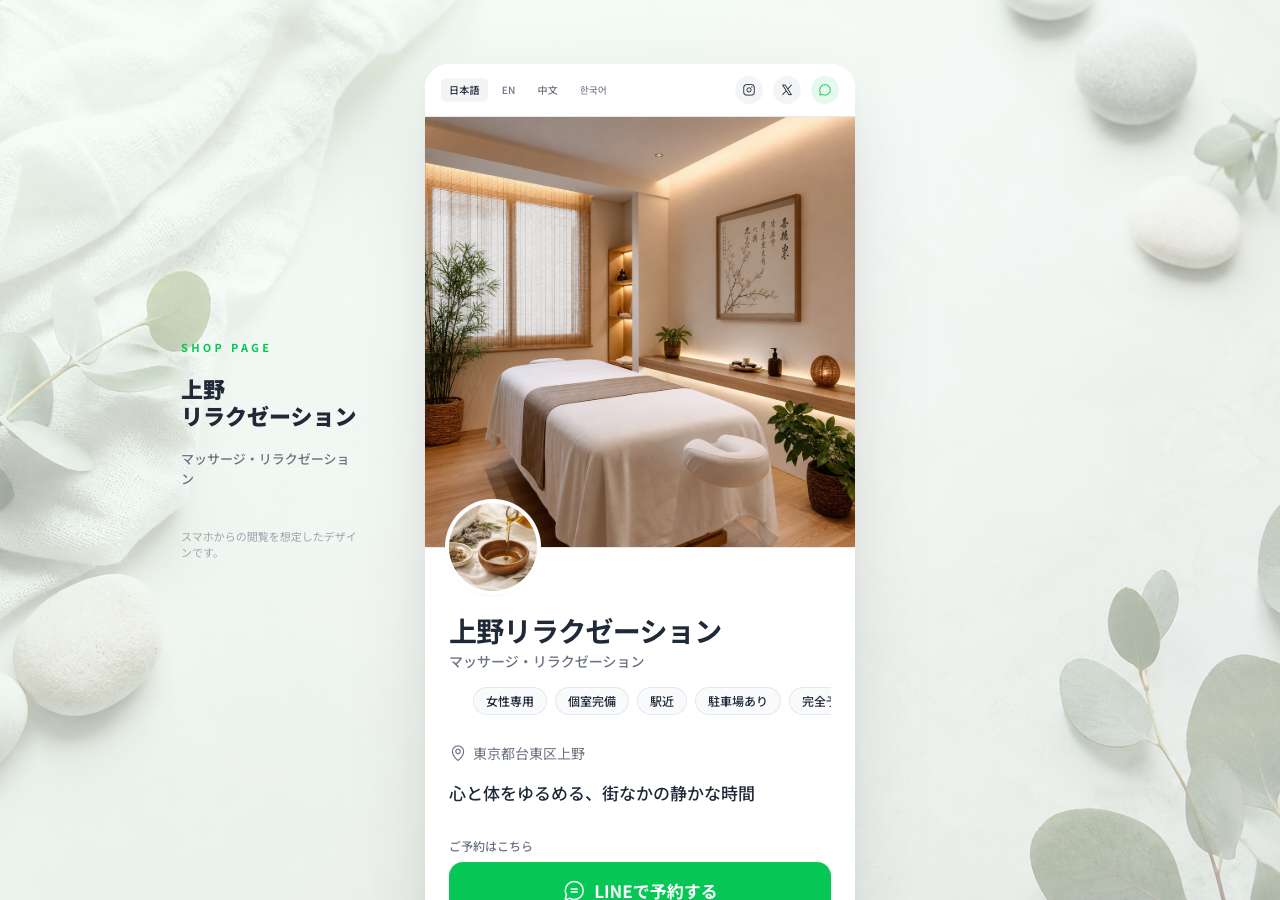
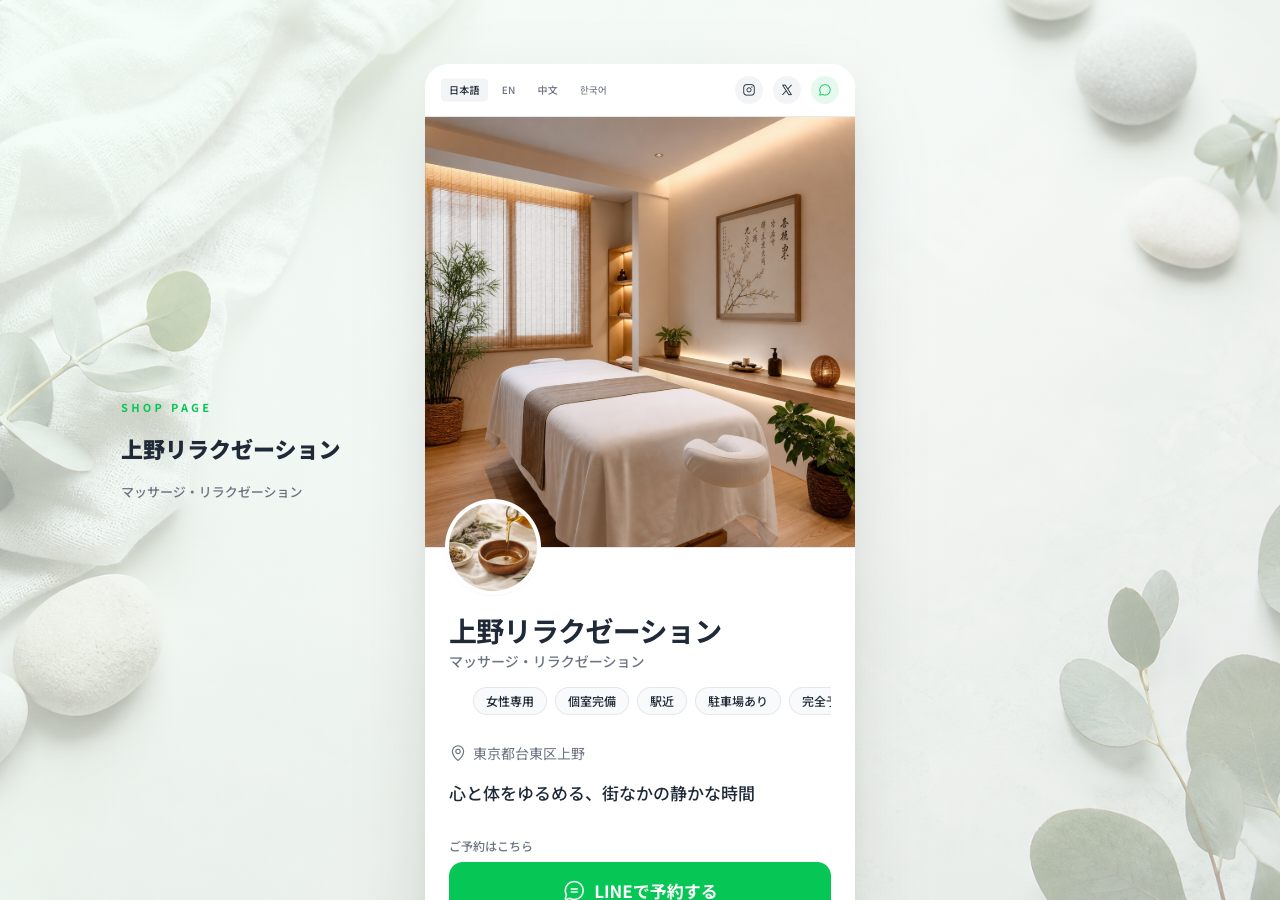
fix(PC): aside の改行問題解消 / READMEに公開ページ反映を明記
## 変な改行禁止
- T1 「上野<br>リラクゼーション」→ <br>削除して 上野リラクゼーション
- T5 「Lounge<br>ROUGE」→ Lounge ROUGE 一行
- 全テンプレ：white-space:nowrap で 単語途中の中折防止
- 全テンプレ：aside width を 180→220-240px に広げて長い店名を吸収

## 不要テキスト削除
- 全テンプレから「スマホからの閲覧を想定したデザインです。」を削除
  ｜ 元々モック用の保険文言、本番では不要

## README に「PC背景は公開ページにも反映」を明記
- 新セクション「🚀 公開ページへの反映」を PC背景セクション内に追加
- オーナー操作不要・テンプレ選択時に PC 背景も自動セット
- aside の店舗名/業種は DB から動的注入
- 改行は <br>禁止、自然折返しに任せる方針を明記
- 実装TODO 5項目（背景パス動的決定/aside動的注入/CDN/WebPフォールバック等）

Changed region(s): [[0.0938, 0.3733, 0.2812, 0.56], [0.1562, 0.5911, 0.25, 0.6222]]

diff --git a/shop-page/templates/T4_elegant.html b/shop-page/templates/T4_elegant.html
@@ -51,11 +51,11 @@
                 display: flex; position: fixed; top: 50%;
                 flex-direction: column; gap: 0.5rem; z-index: 30;
                 left: calc(50% - 215px - 64px); transform: translate(-100%, -50%);
-                width: 200px; align-items: flex-start;
+                width: 220px; align-items: flex-start;
                 color: white;
             }
             .pc-aside-title { font-size: 10px; font-weight: 500; letter-spacing: 0.3em; color: #C9A86A; margin-bottom: 0.25rem; font-family: 'Cormorant Garamond', serif; text-transform: uppercase; }
-            .pc-aside-shop { font-size: 26px; font-weight: 500; color: white; line-height: 1.4; font-family: 'Noto Serif JP', serif; letter-spacing: 0.1em; }
+            .pc-aside-shop { font-size: 26px; font-weight: 500; color: white; line-height: 1.4; white-space: nowrap; font-family: 'Noto Serif JP', serif; letter-spacing: 0.1em; }
             .pc-aside-shop-en { font-size: 14px; font-weight: 500; color: #C9A86A; margin-top: 0.5rem; font-family: 'Cormorant Garamond', serif; letter-spacing: 0.2em; }
             .pc-aside-cat { font-size: 11px; font-weight: 400; color: rgba(255,255,255,0.6); margin-top: 1rem; letter-spacing: 0.15em; }
             .pc-aside-note { font-size: 10px; color: rgba(201,168,106,0.6); margin-top: 1.5rem; line-height: 1.5; letter-spacing: 0.1em; }
@@ -69,7 +69,6 @@
         <div class="pc-aside-shop">碧の空間</div>
         <div class="pc-aside-shop-en">PRIVATE SALON</div>
         <div class="pc-aside-cat">高単価エステ・隠れ家サロン</div>
-        <div class="pc-aside-note">Designed for mobile experience.</div>
     </aside>
 
     <main class="w-full max-w-[430px] bg-white min-h-[100dvh] relative overflow-x-hidden shadow-[0_0_50px_rgba(0,0,0,0.05)]">

diff --git a/shop-page/templates/T5_night.html b/shop-page/templates/T5_night.html
@@ -58,10 +58,10 @@
                 display: flex; position: fixed; top: 50%;
                 flex-direction: column; gap: 0.5rem; z-index: 30;
                 left: calc(50% - 240px - 64px); transform: translate(-100%, -50%);
-                width: 220px; align-items: flex-start;
+                width: 240px; align-items: flex-start;
             }
             .pc-aside-title { font-size: 11px; font-weight: 700; letter-spacing: 0.3em; color: rgba(232,180,160,0.7); margin-bottom: 0.25rem; text-transform: uppercase; }
-            .pc-aside-shop { font-size: 32px; font-weight: 900; color: #E8B4A0; line-height: 1.2; letter-spacing: 0.05em; text-shadow: 0 0 20px rgba(232,180,160,0.4); }
+            .pc-aside-shop { font-size: 32px; font-weight: 900; color: #E8B4A0; line-height: 1.2; white-space: nowrap; letter-spacing: 0.05em; text-shadow: 0 0 20px rgba(232,180,160,0.4); }
             .pc-aside-cat { font-size: 12px; font-weight: 500; color: rgba(245,245,245,0.6); margin-top: 0.75rem; letter-spacing: 0.15em; }
             .pc-aside-note { font-size: 10px; color: rgba(232,180,160,0.4); margin-top: 1.5rem; line-height: 1.5; letter-spacing: 0.1em; }
         }
@@ -71,9 +71,8 @@
 
     <aside class="pc-aside">
         <div class="pc-aside-title">Ginza Snack & Lounge</div>
-        <div class="pc-aside-shop">Lounge<br>ROUGE</div>
+        <div class="pc-aside-shop">Lounge ROUGE</div>
         <div class="pc-aside-cat">スナック・ガールズバー</div>
-        <div class="pc-aside-note">Mobile-first viewing experience.</div>
     </aside>
 
     <main class="w-full max-w-[480px] bg-obsidian text-txtprimary relative overflow-x-hidden shadow-2xl flex flex-col justify-start pb-20">

diff --git a/shop-page/templates/T1_clean.html b/shop-page/templates/T1_clean.html
@@ -70,10 +70,10 @@
                 display: flex; position: fixed; top: 50%; transform: translateY(-50%);
                 flex-direction: column; gap: 1rem; z-index: 30;
                 left: calc(50% - 215px - 64px); transform: translate(-100%, -50%);
-                width: 180px; align-items: flex-start;
+                width: 240px; align-items: flex-start;
             }
             .pc-aside-title { font-size: 11px; font-weight: 700; letter-spacing: 0.3em; color: #06C755; margin-bottom: 0.25rem; }
-            .pc-aside-shop { font-size: 22px; font-weight: 900; color: #1f2937; line-height: 1.2; }
+            .pc-aside-shop { font-size: 22px; font-weight: 900; color: #1f2937; line-height: 1.2; white-space: nowrap; }
             .pc-aside-cat { font-size: 13px; font-weight: 500; color: #6b7280; margin-top: 0.25rem; }
             .pc-aside-note { font-size: 11px; color: #9ca3af; margin-top: 1.5rem; line-height: 1.5; }
         }
@@ -84,9 +84,8 @@
     <!-- PC左サイド：店舗ラベル（モバイル時非表示） -->
     <aside class="pc-aside">
         <div class="pc-aside-title">SHOP PAGE</div>
-        <div class="pc-aside-shop">上野<br>リラクゼーション</div>
+        <div class="pc-aside-shop">上野リラクゼーション</div>
         <div class="pc-aside-cat">マッサージ・リラクゼーション</div>
-        <div class="pc-aside-note">スマホからの閲覧を想定したデザインです。</div>
     </aside>
 
     <main class="mobile-container overflow-hidden flex flex-col">

diff --git a/shop-page/templates/T3_natural.html b/shop-page/templates/T3_natural.html
@@ -52,10 +52,10 @@
                 display: flex; position: fixed; top: 50%;
                 flex-direction: column; gap: 1rem; z-index: 30;
                 left: calc(50% - 195px - 64px); transform: translate(-100%, -50%);
-                width: 200px; align-items: flex-start;
+                width: 220px; align-items: flex-start;
             }
             .pc-aside-title { font-size: 11px; font-weight: 600; letter-spacing: 0.3em; color: #6B8E5A; margin-bottom: 0.25rem; font-family: 'Lora', serif; }
-            .pc-aside-shop { font-size: 24px; font-weight: 700; color: #3D3528; line-height: 1.3; font-family: 'Lora', serif; }
+            .pc-aside-shop { font-size: 24px; font-weight: 700; color: #3D3528; line-height: 1.3; white-space: nowrap; font-family: 'Lora', serif; }
             .pc-aside-cat { font-size: 13px; font-weight: 500; color: #8A7E68; margin-top: 0.5rem; }
             .pc-aside-note { font-size: 11px; color: #C9A87C; margin-top: 1.5rem; line-height: 1.5; }
         }
@@ -67,7 +67,6 @@
         <div class="pc-aside-title">AROMA STUDIO</div>
         <div class="pc-aside-shop">HANARE</div>
         <div class="pc-aside-cat">アロマ・ハーブ・オーガニック</div>
-        <div class="pc-aside-note">スマホからの閲覧を想定したデザインです。</div>
     </aside>
 
     <main class="w-full max-w-[390px] min-h-[100dvh] bg-custom-bg relative shadow-2xl overflow-x-hidden sm:my-8 sm:rounded-[32px] sm:border border-custom-divider pb-12 flex flex-col">

diff --git a/shop-page/templates/T2_wamodern.html b/shop-page/templates/T2_wamodern.html
@@ -57,10 +57,10 @@
                 display: flex; position: fixed; top: 50%;
                 flex-direction: column; gap: 1rem; z-index: 30;
                 left: calc(50% - 240px - 64px); transform: translate(-100%, -50%);
-                width: 200px; align-items: flex-start;
+                width: 220px; align-items: flex-start;
             }
             .pc-aside-title { font-size: 11px; font-weight: 500; letter-spacing: 0.3em; color: #8B6F47; margin-bottom: 0.25rem; font-family: serif; }
-            .pc-aside-shop { font-size: 28px; font-weight: 500; color: #1A1A1A; line-height: 1.3; font-family: serif; }
+            .pc-aside-shop { font-size: 28px; font-weight: 500; color: #1A1A1A; line-height: 1.3; white-space: nowrap; font-family: serif; }
             .pc-aside-cat { font-size: 13px; font-weight: 500; color: #8B6F47; margin-top: 0.5rem; letter-spacing: 0.1em; }
             .pc-aside-note { font-size: 11px; color: #999; margin-top: 1.5rem; line-height: 1.5; }
         }
@@ -72,7 +72,6 @@
         <div class="pc-aside-title">SHOP</div>
         <div class="pc-aside-shop">結び堂</div>
         <div class="pc-aside-cat">整体・治療院・鍼灸</div>
-        <div class="pc-aside-note">スマホからの閲覧を想定したデザインです。</div>
     </aside>
 
     <div class="app-container shadow-[0_0_40px_-15px_rgba(0,0,0,0.05)] md:border-x md:border-paper/40">

diff --git a/shop-page/admin/README.md b/shop-page/admin/README.md
@@ -504,6 +504,44 @@ body {
 - グラデーションを **半透明（alpha 0.3〜0.7）** で被せ、テンプレ色を維持しつつ装飾も見せる
 - 中央のモバイルコンテナはネガティブスペースに配置されるよう構図を意識（aidesigner プロンプトで "lots of negative space in the center" を指示）
 
+### 🚀 公開ページへの反映（重要）
+
+**PC背景はモック画面だけでなく、実際に公開される `secleva.com/SHOP-{id}` にもそのまま反映される設定**。
+
+```
+[Owner が選択したテンプレ ID]
+    ↓
+[公開ページ レンダリング]
+    ├ モバイル: モバイルファースト UI（スマホサイズ）
+    └ PC (≥1024px): モバイル UI を中央配置
+                      + テンプレ別の PC背景画像（aidesigner生成・サーバー側で固定）
+                      + テンプレ色グラデーションオーバーレイ
+                      + 左 aside（店舗名・業種ラベル）
+```
+
+つまり：
+- **オーナー側の操作不要**：テンプレ選択時に PC 背景も自動セット
+- **店舗ごとに変えない**：同じテンプレを選んだ全店舗が同じ PC 背景を使う（5枚を全国の店舗で共有）
+- **将来拡張**：店舗カテゴリやエリア別に PC 背景を差別化する余地は残す（その場合 `branding/dummy/pc-bg/T1_clean_kansai.webp` のような派生を作る）
+
+### aside の表示内容（公開ページ側）
+公開ページの PC aside にも、店舗情報を **動的に**注入：
+
+```
+{shop.category} を SHOP PAGE / AROMA STUDIO 等のラベルに変換
+{shop.name}                   ← 店舗名（DB値）
+{shop.category_subtitle}      ← 業種（DB値）
+```
+
+→ 各テンプレの aside CSS と HTML 構造は同じ。テキスト部分だけサーバー側で差し替える。
+
+### 実装時の TODO（PC背景・aside 公開ページ反映）
+- [ ] バックエンドの shop.template_id から PC 背景画像パスを動的決定
+- [ ] PC aside の店舗名・業種を DB から動的注入
+- [ ] aside の改行は **`<br>`を入れずに自然折返し**に任せる（短い店舗名はそのまま、長い店舗名は CSS で自然に折り返す）
+- [ ] PC 背景の CDN キャッシュ設定（長期キャッシュ、テンプレ更新時はバージョン query で busting）
+- [ ] WebP 非対応ブラウザ用の JPEG フォールバック生成
+
 ### aside の内容（5テンプレ共通フォーマット）
 ```
 {ラベル：SHOP PAGE / AROMA STUDIO 等}
